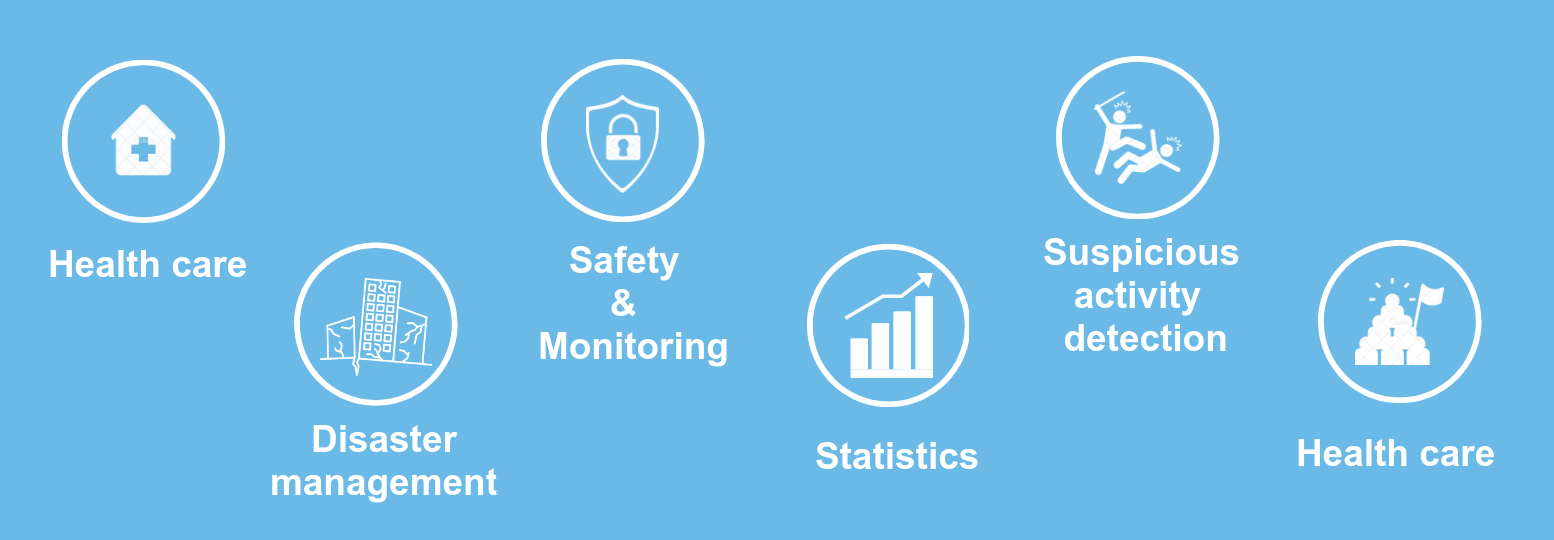
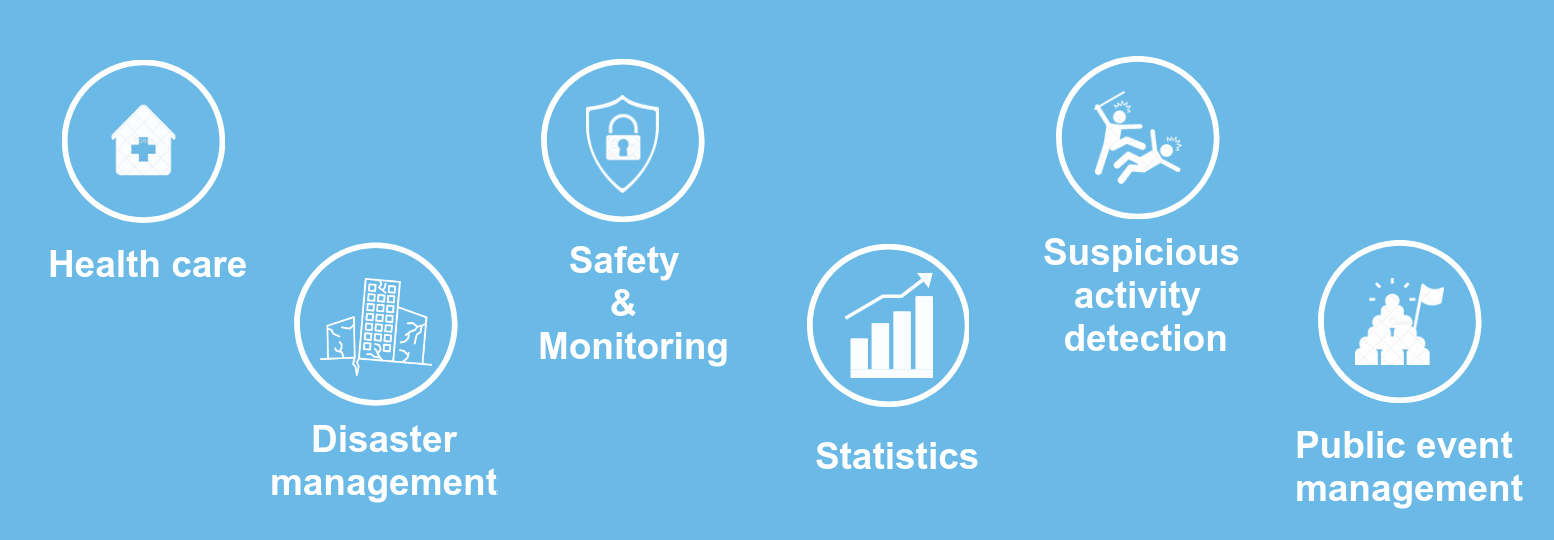
crowd_detection: citation init

Changed region(s): [[0.834, 0.8889, 0.9884, 0.9481], [0.834, 0.8, 0.9884, 0.8593]]

diff --git a/_posts/2021-01-17-crowd-detection.md b/_posts/2021-01-17-crowd-detection.md
@@ -24,6 +24,10 @@ According to Google Scholar, 1460 papers have been published concerning crowd de
 
 
 
+Moreover, crowd detection is useful for public event management. The supervisory authorities will receive a notification as soon as a violent public demonstration occures. This will greatly assist them to restore calm and order.
+
+
+
 <p align="center">
   <img width="754" height="140" src="/assets/images/crowd_detection/crowd_detection_app.png">
   <br>
